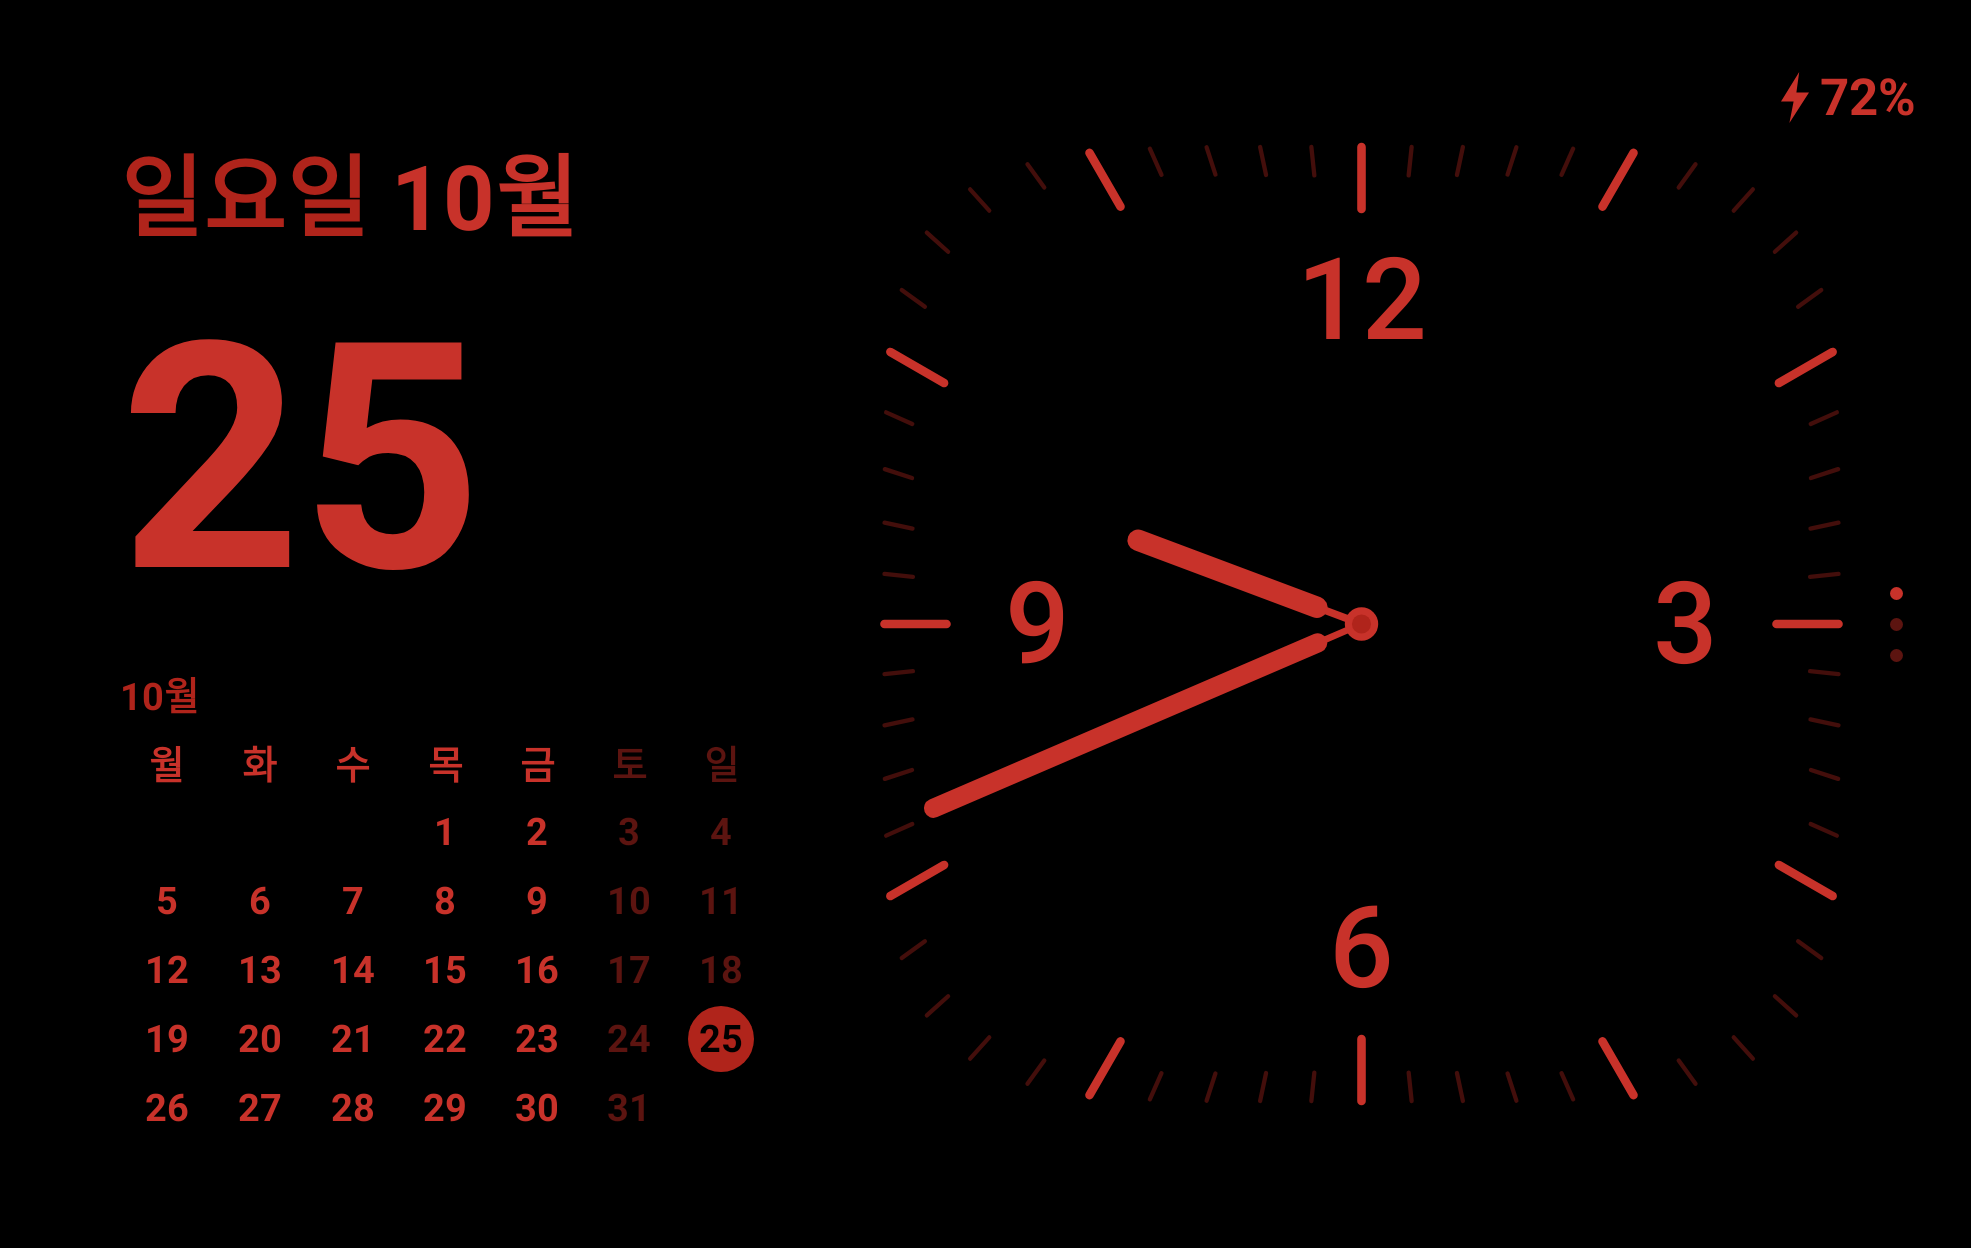
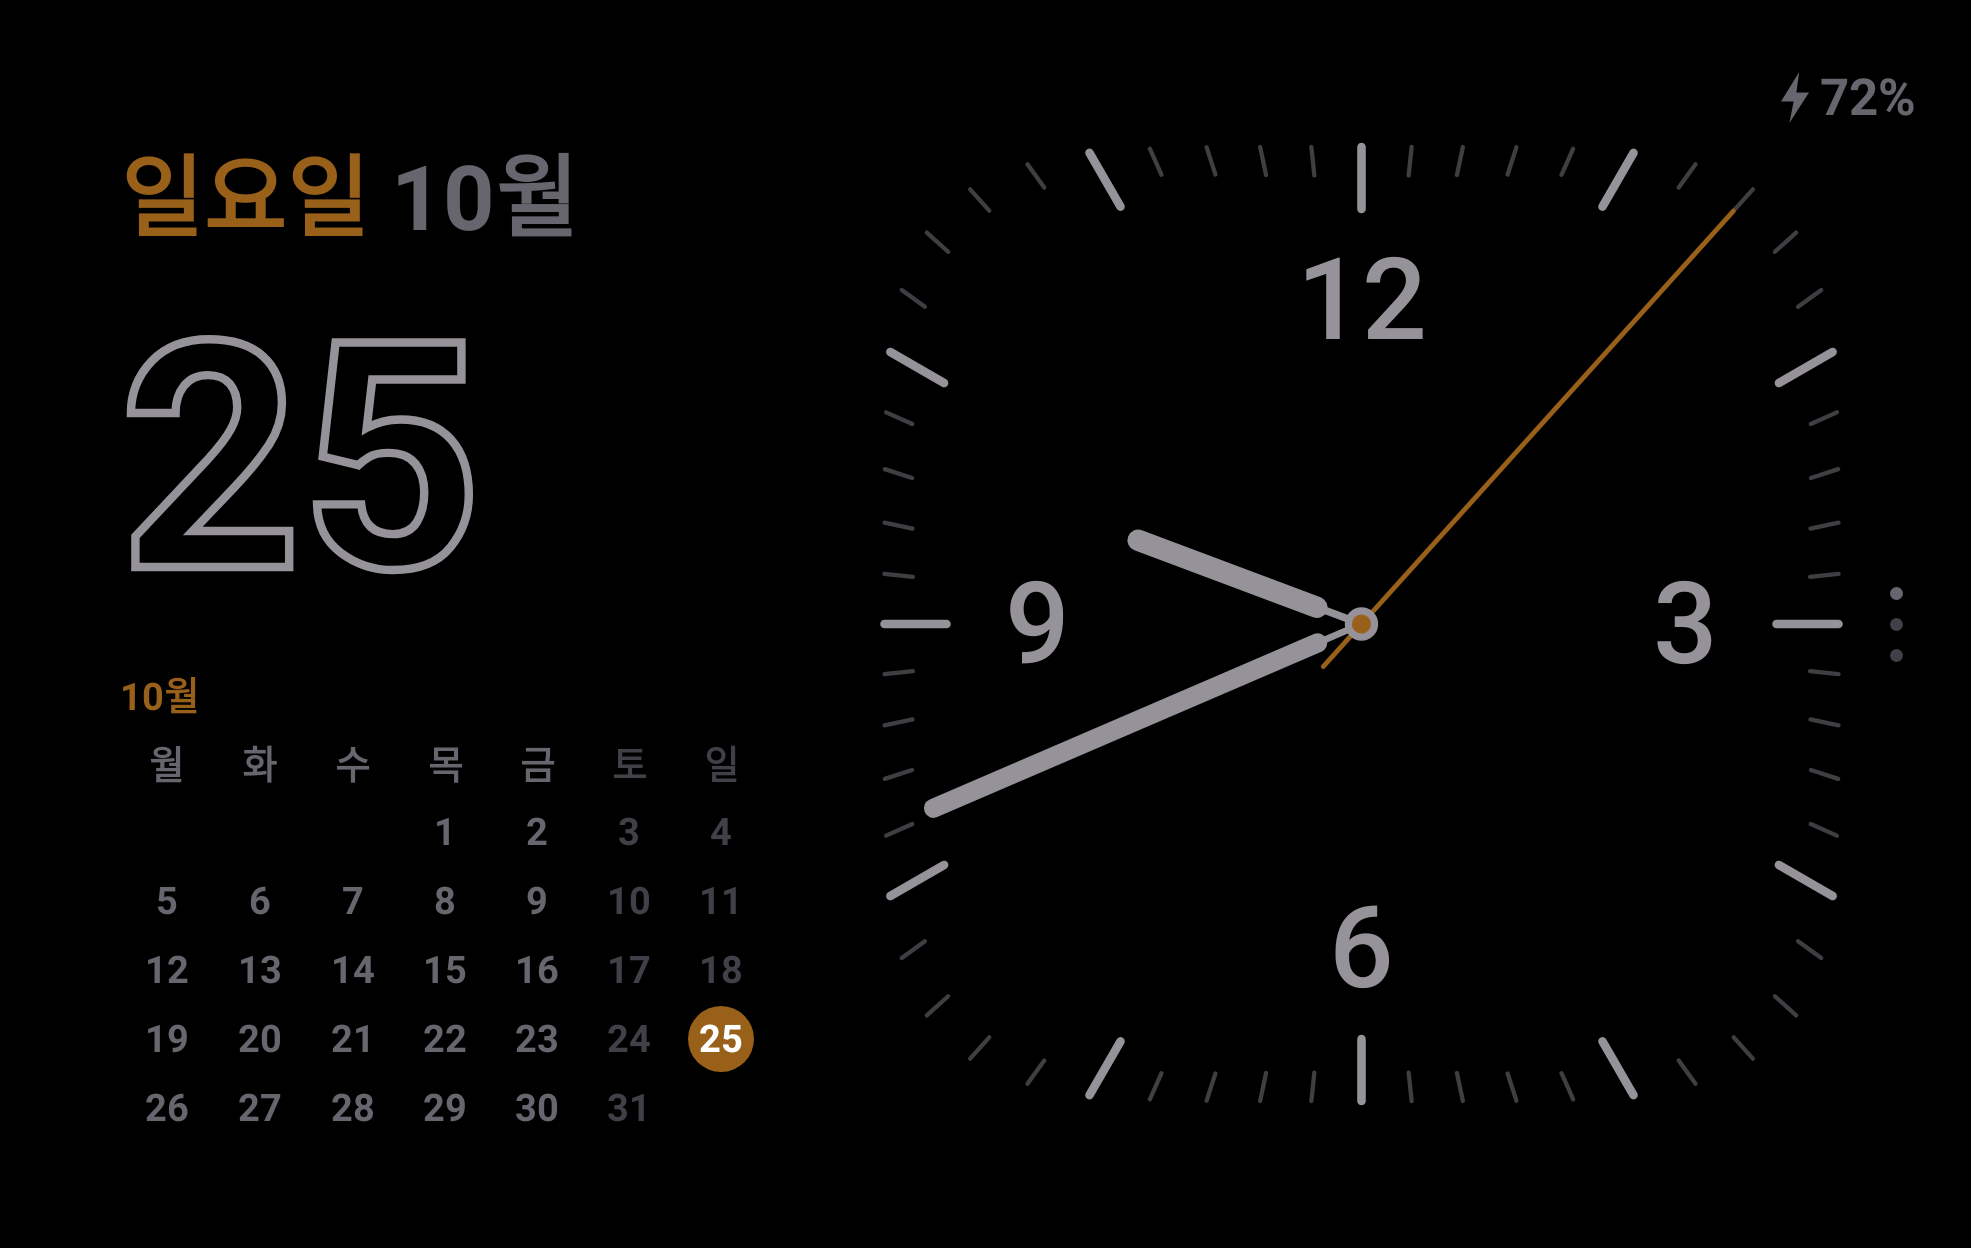
v1.1.0-beta.7: 잠자는 시간에 만졌을 때 밝은 방에서도 시각이 읽히게(versionCode 9)
- 밝은 방은 쉬는 화면 수준(회색 계열, 밝기 최대 30%), 어두운 방은 기존 야간 빨강
- 스냅숏 1장 추가, quiet_peek 갱신

Claude-Session: https://claude.ai/code/session_01GBcjV5Qu3vuWXfPCpWNDNM

diff --git a/app/src/main/java/com/marksnd/foldstandby/ui/StandbyScreen.kt b/app/src/main/java/com/marksnd/foldstandby/ui/StandbyScreen.kt
@@ -128,11 +128,11 @@ fun StandbyScreen(
     // 잠자는 시간: 알람 전 빛이 없을 때만. 알람 빛이 켜지면 잠자는 시간이어도 빛이 우선한다.
     val quietWindow = glow == null && settings.quietEnabled &&
         isQuiet(minuteOfDay(tick), settings.quietStartMin, settings.quietEndMin)
-    val night = glow == null && (quietWindow || when (settings.nightMode) {
+    val night = glow == null && when (settings.nightMode) {
         NightMode.Auto -> dark
         NightMode.On -> true
         NightMode.Off -> false
-    })
+    }
 
     // 가만히 두면 쉬기: 밤에는 1분 뒤 거의 끄고, 낮에는 10분 뒤 어둡게(쉬는 화면). 움직이거나 만지면 다시 켠다.
     // 새 알림이 오거나 음악이 재생 중이면 쉬지 않는다.
@@ -145,6 +145,8 @@ fun StandbyScreen(
     val lastActive = maxOf(lastMotion, lastTouch, nightSince, latestNotification?.postedAt ?: 0L)
     // 잠자는 시간에는 움직임·알림·음악이 깨우지 않는다. 화면을 만지면 10초만 시각을 보여준다.
     val quietBlank = quietWindow && tick - lastTouch > QUIET_PEEK_MS
+    // 만져서 시각을 보는 10초: 어두운 방이면 야간(빨강, 아주 낮은 밝기), 밝은 방이면 쉬는 화면 수준으로 읽히게 보여준다.
+    val quietPeek = quietWindow && !quietBlank
     val asleep = quietBlank || (settings.wakeOnMotion && night && tick - lastActive > SLEEP_AFTER_MS)
     val rested = settings.wakeOnMotion && !night && glow == null && !playing && tick - lastActive > REST_AFTER_MS
     val asleepNow by rememberUpdatedState(asleep)
@@ -159,6 +161,7 @@ fun StandbyScreen(
         glow != null -> 0.05f + 0.95f * (glow * 20).roundToInt() / 20f // 5% 단위로만 바꾼다
         asleep -> 0f
         night -> 0.01f
+        quietPeek -> minOf(REST_BRIGHTNESS, systemBrightness(context) ?: REST_BRIGHTNESS)
         rested -> minOf(REST_BRIGHTNESS, systemBrightness(context) ?: REST_BRIGHTNESS)
         else -> null
     }
@@ -176,7 +179,7 @@ fun StandbyScreen(
     val day = dayPalette(Accents[settings.accent.coerceIn(Accents.indices)])
     val palette = when {
         night -> NightPalette
-        rested -> day.rested()
+        rested || quietPeek -> day.rested()
         else -> day
     }
     // 처음 쉬거나 거의 꺼질 때 한 번만 "움직이거나 만지면 다시 켜져요"를 알려 준다.

diff --git a/app/src/test/java/com/marksnd/foldstandby/ui/StandbyScreenshotTest.kt b/app/src/test/java/com/marksnd/foldstandby/ui/StandbyScreenshotTest.kt
@@ -110,8 +110,9 @@ class StandbyScreenshotTest {
 
     private fun nextPage() = composeRule.onRoot().performTouchInput { swipeLeft(startX = width * 0.9f, endX = width * 0.1f) }
 
-    // 잠자는 시간 끄기: 만진 직후 10초 동안 보이는 시각, 그 뒤의 검은 화면, 알람 전 빛은 우선
+    // 잠자는 시간 끄기: 만진 직후 10초 동안 보이는 시각(밝은 방·어두운 방), 그 뒤의 검은 화면, 알람 전 빛은 우선
     @Config(qualifiers = FOLD8_COVER_LAND) @Test fun fold8CoverQuietPeek() = shoot("fold8_cover_land_quiet_peek", quiet = true)
+    @Config(qualifiers = FOLD8_COVER_LAND) @Test fun fold8CoverQuietPeekDark() = shoot("fold8_cover_land_quiet_peek_dark", sources = FixedSources(dark = true), quiet = true)
     @Config(qualifiers = FOLD8_COVER_LAND) @Test fun fold8CoverQuietBlank() = shoot("fold8_cover_land_quiet_blank", quiet = true, quietBlank = true)
     @Config(qualifiers = FOLD8_COVER_LAND) @Test fun fold8CoverQuietAlarmGlow() = shoot("fold8_cover_land_quiet_alarm_glow", sources = FixedSources(alarmInMinutes = 5), quiet = true, quietBlank = true)
 

diff --git a/README.md b/README.md
@@ -54,7 +54,7 @@ Android 12 이상의 갤럭시라면 설치하고 쓸
 ### 1. APK 파일 받기
 
 1. 폰에서 이 페이지를 열어요.
-2. [내려받기](https://github.com/svmark/standface/releases) 페이지 맨 위(가장 최근 버전)의 **Assets** 아래에서 `Standface-`로 시작하는 `.apk` 파일(예: `Standface-1.1.0-beta.6.apk`)을 눌러 내려받아요. 지금 나와 있는 버전은 테스트판 v1.1.0-beta.6라서 **Pre-release** 표시가 붙어 있어요.
+2. [내려받기](https://github.com/svmark/standface/releases) 페이지 맨 위(가장 최근 버전)의 **Assets** 아래에서 `Standface-`로 시작하는 `.apk` 파일(예: `Standface-1.1.0-beta.7.apk`)을 눌러 내려받아요. 지금 나와 있는 버전은 테스트판 v1.1.0-beta.7라서 **Pre-release** 표시가 붙어 있어요.
 3. "이 유형의 파일은 기기를 손상시킬 수 있습니다" 같은 안내가 나오면 **다운로드**를 눌러요.
 
 ### 2. 자동 차단 끄기 (켜져 있을 때만)

diff --git a/CHANGELOG.md b/CHANGELOG.md
@@ -2,6 +2,10 @@
 
 버전 번호와 릴리스 순서는 [RELEASING.md](RELEASING.md)를 봐요.
 
+## 1.1.0-beta.7 · 2026-11-02 (테스트판)
+
+- **잠자는 시간에 만졌을 때 밝은 곳에서 시각이 안 보이던 문제**를 고쳤어요. 방이 밝으면 쉬는 화면처럼 회색 계열로 읽기 쉽게, 어두운 방에서는 지금처럼 어두운 빨강으로 10초 동안 보여줘요(제보: 밝은 곳에서는 거의 안 보임).
+
 ## 1.1.0-beta.6 · 2026-11-02 (테스트판)
 
 - **잠자는 시간 끄기**: 설정 › 침대 옆 시계에서 켜고 시작·끝 시각을 골라요(켜면 0:00~6:00부터 시작, 기본은 꺼짐). 그 시간에는 화면이 검게 돼요. 알람 15분 전부터는 은은한 빛이 켜지고, 화면을 만지면 10초 동안 시각이 보였다가 다시 검게 돼요. 움직임이나 새 알림, 음악으로는 켜지지 않고, 이 시간에는 움직임 센서도 꺼서 배터리를 아껴요. 22:00~06:00처럼 자정을 넘기는 시간도 돼요.
